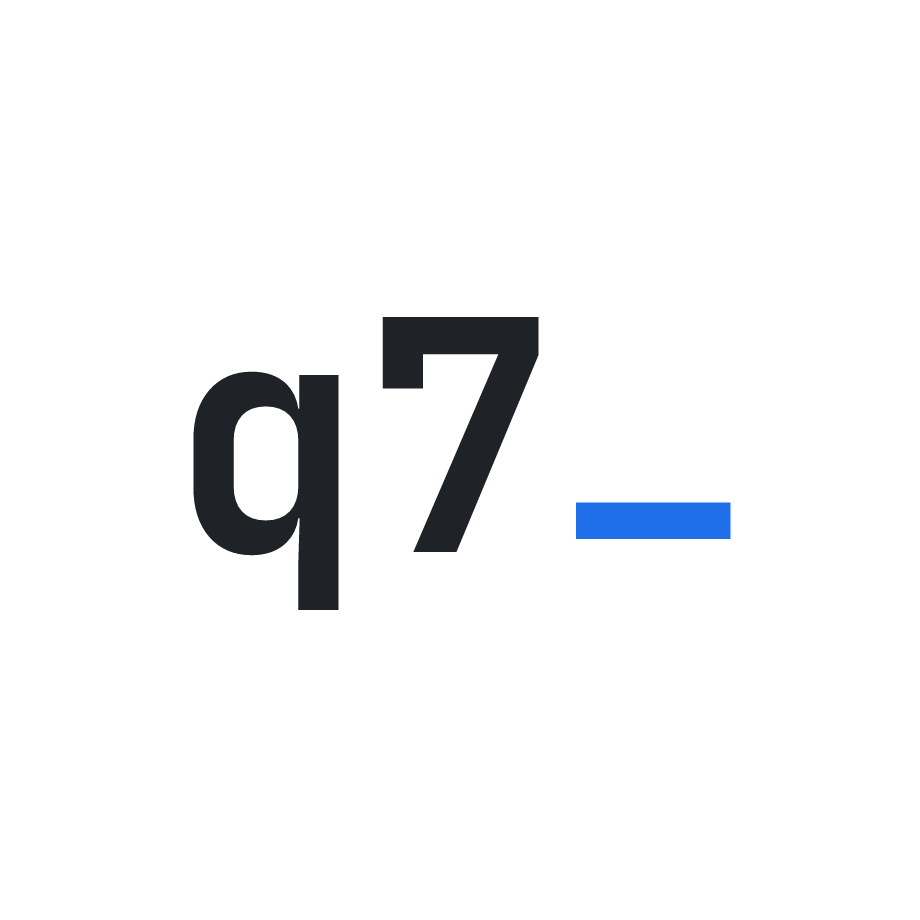
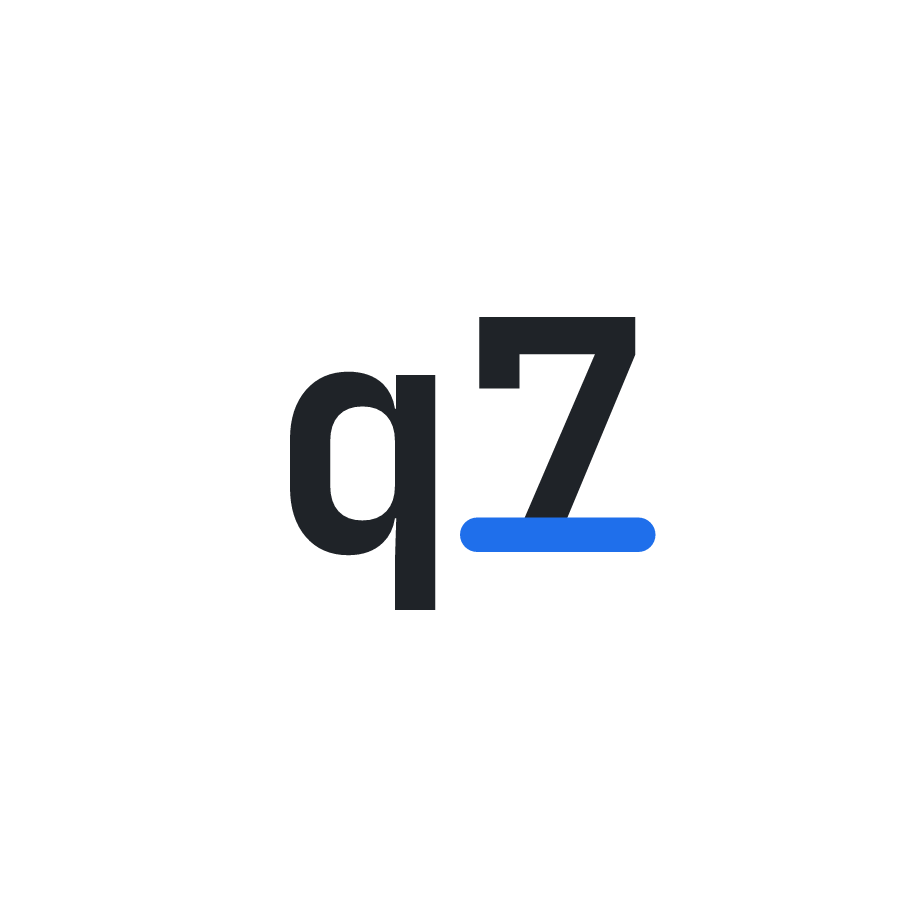
docs(readme): add Lineage section reflecting RAPID-spec-forge archive (#53)
* docs(readme): add Lineage section reflecting RAPID-spec-forge archive

Supersedes #45 (which added the same section but pre-archive).

Records the full spec-pillar lineage:
- context-engineering-template-legacy (2025-07-06; CABIO 2025-08-11)
- RAPID-spec-forge (continuation, archived 2026-04-26)
- claude-code-plugins/spec-forge (in development)

Cross-links the three follow-up tracking issues (#50, #51, #52)
inherited from the archived repo.

* feat(brand): add logo-wordmark.text.svg variant for github.com rendering test

Sibling of the canonical logo-wordmark.svg, identical content. Lets us
A/B test how the text-based wordmark renders on github.com (where
font-fallback applies because <img>-loaded SVGs can't fetch web fonts)
without touching the working canonical.

* feat(brand): add logo-mark.text.svg + paths SVGs for both logos

Three-format strategy on this branch:
- logo-mark.svg / logo-wordmark.svg — canonical (existing)
- logo-mark.text.svg / logo-wordmark.text.svg — sibling text variants
  for github.com A/B comparison
- logo-mark.paths.svg / logo-wordmark.paths.svg — derived path-only
  SVGs (JBM Bold geometry baked in via uharfbuzz + fontTools)

brand/.gitignore: stop ignoring logo-mark.paths.svg — it's now a
committed artifact.

* feat(brand): switch logo font to Cascadia Mono Bold (Consolas-like)

Both .text and .paths variants now use the same font for consistent
visual identity:

- font-family chain on canonical and .text SVGs leads with
[…]

Changed region(s): [[0.1826, 0.3348, 0.8217, 0.6696]]

diff --git a/brand/scripts/svg_text_to_paths.py b/brand/scripts/svg_text_to_paths.py
@@ -21,7 +21,7 @@ Usage as module:
     new_svg = text_to_paths(svg_string, font_path)
 
 Usage as CLI (stdin -> stdout):
-    cat brand/images/logo-mark.svg | uv run scripts/svg_text_to_paths.py \\
+    cat brand/images/logo-mark.text.svg | uv run scripts/svg_text_to_paths.py \\
         --font brand/fonts/JetBrainsMono-Bold.ttf > out.svg
 """
 
@@ -79,17 +79,22 @@ def _convert_text_element(text_el: ET.Element, hb_font: hb.Font, ttfont: TTFont)
     features = _parse_features(text_el.get("font-feature-settings"))
     scale = font_size / upem
 
-    # First pass: shape every tspan, collect glyph data + total advance
+    # First pass: shape every run (tspan or direct text), collect glyph data
     runs: list[tuple[float, float, list[tuple[int, float, float]]]] = []
     total_advance = 0.0
     cursor_x = 0.0
     cursor_y = 0.0  # relative to baseline y
 
-    for tspan in text_el.findall(f"{{{SVG_NS}}}tspan"):
-        cls = tspan.get("class", "")
-        dy = float(tspan.get("dy", 0))
+    tspans = text_el.findall(f"{{{SVG_NS}}}tspan")
+    if tspans:
+        run_inputs = [(t.get("class", ""), float(t.get("dy", 0)),
+                       t.text or "") for t in tspans]
+    else:
+        # No tspan; treat the <text> element's own text as a single run.
+        run_inputs = [(text_el.get("class", ""), 0.0, text_el.text or "")]
+
+    for cls, dy, text in run_inputs:
         cursor_y += dy
-        text = tspan.text or ""
         infos, positions = _shape(hb_font, text, features)
         glyphs: list[tuple[int, float, float]] = []
         for info, pos in zip(infos, positions):

diff --git a/brand/scripts/install_fonts.py b/brand/scripts/install_fonts.py
@@ -2,9 +2,13 @@
 # requires-python = ">=3.11"
 # dependencies = []
 # ///
-"""Download Inter and JetBrains Mono fonts into brand/fonts/.
+"""Download Inter, JetBrains Mono, and Cascadia Mono fonts into brand/fonts/.
 
-Both are SIL OFL 1.1 licensed and free to redistribute.
+Inter and JetBrains Mono are SIL OFL 1.1 licensed; Cascadia Mono is
+SIL OFL 1.1 (also MIT-derived release from Microsoft). All three are
+free to redistribute. Cascadia Mono is used for the brand mark/wordmark
+because it's the closest OSS Consolas-alike (same designer, similar
+optical proportions).
 """
 
 from __future__ import annotations
@@ -24,6 +28,8 @@ FONTS = {
         "https://cdn.jsdelivr.net/fontsource/fonts/jetbrains-mono@latest/latin-400-normal.ttf",
     "JetBrainsMono-Bold.ttf":
         "https://cdn.jsdelivr.net/fontsource/fonts/jetbrains-mono@latest/latin-700-normal.ttf",
+    "CascadiaMono-Bold.ttf":
+        "https://cdn.jsdelivr.net/fontsource/fonts/cascadia-mono@latest/latin-700-normal.ttf",
 }
 
 

diff --git a/brand/scripts/render_avatar.py b/brand/scripts/render_avatar.py
@@ -7,7 +7,7 @@
 #     "defusedxml>=0.7",
 # ]
 # ///
-"""Rasterize brand/images/logo-mark.svg to brand/images/avatar_{dark,light}.png at 920x920.
+"""Rasterize brand/images/logo-mark.text.svg to brand/images/avatar_{dark,light}.png at 920x920.
 
 The canonical SVG keeps its <text> element (font-driven, editable). For
 rasterization we derive an in-memory path-only SVG via
@@ -44,7 +44,7 @@ from svg_text_to_paths import text_to_paths
 
 BRAND = Path(__file__).resolve().parent.parent
 IMAGES = BRAND / "images"
-SRC = IMAGES / "logo-mark.svg"
+SRC = IMAGES / "logo-mark.text.svg"
 OUT_DARK = IMAGES / "avatar_dark.png"
 OUT_LIGHT = IMAGES / "avatar_light.png"
 FONTS_DIR = BRAND / "fonts"

diff --git a/brand/README.md b/brand/README.md
@@ -5,8 +5,8 @@ Source palette, logo, and font references for qte77 visual identity.
 ## Files
 
 - `palette.toml` — color tokens (GitHub Primer, light + dark variants)
-- `images/logo-mark.svg` — square mark, adaptive light/dark
-- `images/logo-wordmark.svg` — full "qte77" wordmark, adaptive light/dark
+- `images/logo-mark.text.svg` / `logo-mark.paths.svg` — square mark; canonical text + path-baked variant
+- `images/logo-wordmark.text.svg` / `logo-wordmark.paths.svg` — wordmark; same pair
 - `images/avatar_dark.png` / `images/avatar_light.png` — 920×920 PNG
   rasters of the mark for use as a GitHub account avatar (rendered by
   `scripts/render_avatar.py`)
@@ -16,16 +16,16 @@ Source palette, logo, and font references for qte77 visual identity.
 - `Makefile` — entry point for all the above; see `make -C brand help`
 
 <details>
-<summary>Preview: <code>images/logo-mark.svg</code></summary>
+<summary>Preview: <code>images/logo-mark.paths.svg</code></summary>
 
-<img src="./images/logo-mark.svg" alt="qte77 mark" width="120">
+<img src="./images/logo-mark.paths.svg" alt="qte77 mark" width="120">
 
 </details>
 
 <details>
-<summary>Preview: <code>images/logo-wordmark.svg</code></summary>
+<summary>Preview: <code>images/logo-wordmark.paths.svg</code></summary>
 
-<img src="./images/logo-wordmark.svg" alt="qte77 wordmark" width="320">
+<img src="./images/logo-wordmark.paths.svg" alt="qte77 wordmark" width="320">
 
 </details>
 

diff --git a/README.md b/README.md
@@ -2,7 +2,7 @@
 <!-- https://github.com/DavidAnson/markdownlint/blob/v0.25.1/doc/Rules.md#md033 -->
 
 <p align="center">
-  <img src="brand/images/logo-wordmark.svg" alt="qte77" width="320" />
+  <img src="brand/images/logo-wordmark.paths.svg" alt="qte77" width="320" />
 </p>
 
 Goal-driven development with AI agents — from specs to merged PRs across dev and office repos. RAPID generates specs, Ralph implements via TDD, Polyforge and Office-forge orchestrate across repos, issues sync cross-repo, progress traces back to goals.
@@ -70,3 +70,7 @@ Goal-driven development with AI agents — from specs to merged PRs across dev a
 - [x] Kaggle Competitions
 - [ ] Codewars Python
 - [ ] AdventOfcode
+
+## Lineage
+
+The spec-generation pillar descends from [`context-engineering-template-legacy`](https://github.com/qte77/context-engineering-template-legacy) (created 2025-07-06; CABIO vision introduced 2025-08-11), where the BRD → PRD → FRP pipeline originated. [`RAPID-spec-forge`](https://github.com/qte77/RAPID-spec-forge) continued that line until archived 2026-04-26; the spec methodology is heading to [`claude-code-plugins`](https://github.com/qte77/claude-code-plugins) as the `spec-forge` plugin.

diff --git a/docs/github-image-theming.md b/docs/github-image-theming.md
@@ -95,8 +95,8 @@ Empirical evidence inside this repo:
 
 - `assets/images/mental-model.svg`
 - `assets/images/pipeline-layers.svg`
-- `brand/images/logo-mark.svg`
-- `brand/images/logo-wordmark.svg`
+- `brand/images/logo-mark.text.svg`
+- `brand/images/logo-wordmark.text.svg`
 
 All four are referenced from READMEs via plain `<img>` tags and adapt
 correctly in GitHub's light and dark themes.
